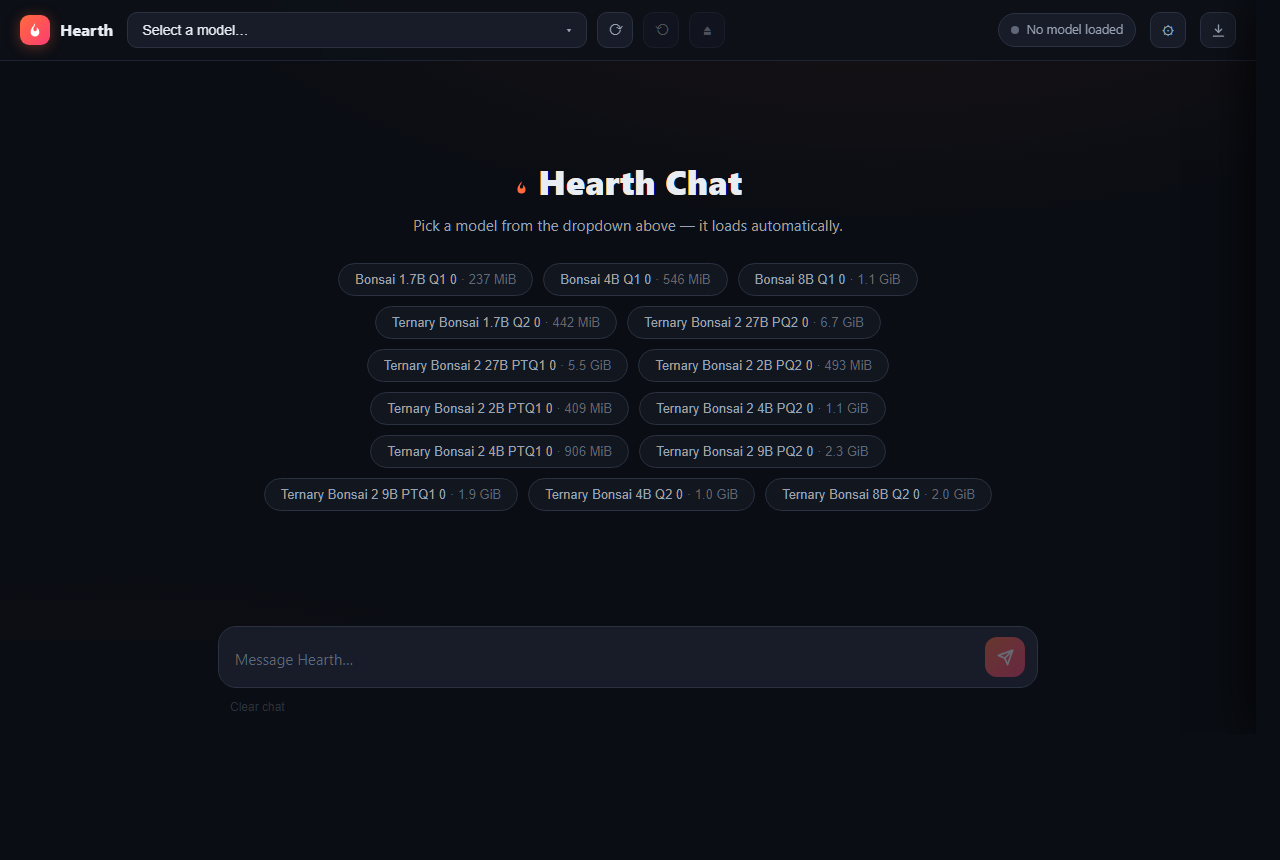
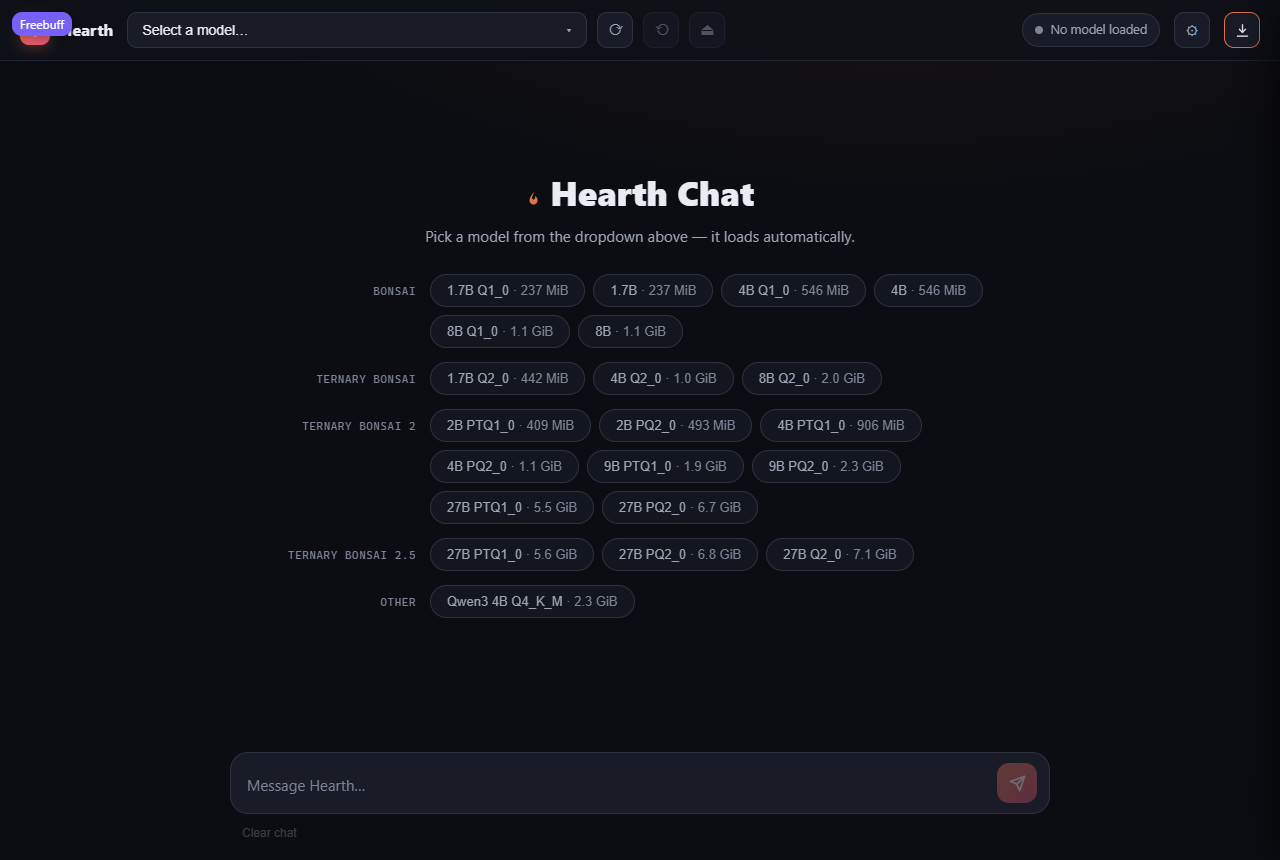
Group the hero's model chips by family
Seventeen packs read as one wall of chips, so the picker's family order now
also names the groups: a right-aligned heading per run of models, and chips
that carry only what differs inside the group ("27B PTQ1_0" rather than
"Ternary Bonsai 2 27B PTQ1_0"). One table drives rank, heading and prefix,
so they cannot drift apart, and an unknown file still lands under "Other".

The stylesheet had no rules for the three classes the markup emits, so the
headings rendered as unstyled text above the chips; added them, with a fixed
label column so the chips line up down the page and no-wrapping headings so
"Ternary Bonsai 2.5" cannot push its row down.

Verified in the browser at 1280x860: /, /api/models and /api/downloads all
200, no console errors, the catalog renders all 18 entries with their state,
and both README screenshots are re-shot from this build.

diff --git a/crates/hearth-ui/src/web/index.html b/crates/hearth-ui/src/web/index.html
@@ -293,6 +293,37 @@
     transition: all .15s;
   }
   .chip:hover { color: var(--text); border-color: var(--accent); background: var(--accent-soft); }
+  /* The hero chip wall, grouped by family: one heading per run of models, so
+     seventeen packs read as four families instead of one long line. A two-column
+     label/chips row keeps the headings aligned with each other and the chips
+     aligned with the labels, which a centred flex line cannot do. */
+  .chip-groups {
+    display: flex;
+    flex-direction: column;
+    gap: 14px;
+    max-width: 780px;
+    margin: 26px auto 0;
+    text-align: left;
+  }
+  .chip-group { display: flex; align-items: baseline; gap: 14px; }
+  .chip-group-label {
+    /* Wide enough for the longest heading ("Ternary Bonsai 2.5") on one line:
+       a wrapped heading pushes its chips down and breaks the column. */
+    flex: 0 0 150px;
+    text-align: right;
+    white-space: nowrap;
+    font-family: var(--mono);
+    font-size: 11px;
+    letter-spacing: .06em;
+    text-transform: uppercase;
+    color: var(--faint);
+  }
+  .chip-group .chips {
+    flex: 1 1 auto;
+    justify-content: flex-start;
+    gap: 8px;
+    margin-top: 0;
+  }
 
   /* ---------- Composer ---------- */
   .composer-zone {
@@ -939,6 +970,30 @@ function searchedDirsHtml() {
     '<span class="dir">' + esc(d) + (i === dirs.length - 1 ? '.' : '') + '</span>').join("");
 }
 
+// The picker can hold seventeen files, and a flat list of seventeen chips is a
+// wall. S.models is already sorted by family, so one pass splits it into
+// consecutive runs and each run gets its heading.
+function modelChipsHtml() {
+  const groups = [];
+  for (const m of S.models) {
+    const family = familyOf(m.name);
+    let group = groups[groups.length - 1];
+    if (!group || group.family !== family) {
+      group = { family, items: [] };
+      groups.push(group);
+    }
+    group.items.push(m);
+  }
+  return '<div class="chip-groups">' + groups.map((g) =>
+    '<div class="chip-group">' +
+      '<div class="chip-group-label">' + esc(g.family.label) + '</div>' +
+      '<div class="chips">' + g.items.map((m) =>
+        '<button class="chip" data-path="' + esc(m.path) + '">' + esc(chipLabel(m.name)) +
+        ' <span style="color:var(--faint)">· ' + fmtBytes(m.size_bytes) + '</span></button>').join("") +
+      '</div>' +
+    '</div>').join("") + '</div>';
+}
+
 function heroEl() {
   const div = document.createElement("div");
   div.className = "hero";
@@ -953,11 +1008,7 @@ function heroEl() {
         '<div class="dir">HEARTH_MODELS_DIR adds more folders.</div></div>' +
         '<div><button class="chip" id="heroDl">Open model downloads</button></div>'
       : "") +
-    (S.models.length
-      ? '<div class="chips">' + S.models.map(m =>
-          '<button class="chip" data-path="' + esc(m.path) + '">' + esc(prettyName(m.name)) +
-          ' <span style="color:var(--faint)">· ' + fmtBytes(m.size_bytes) + '</span></button>').join("") + '</div>'
-      : "");
+    (S.models.length ? modelChipsHtml() : "");
   div.querySelectorAll(".chip").forEach(ch => {
     ch.addEventListener("click", () => {
       modelSelect.value = ch.dataset.path;
@@ -978,13 +1029,23 @@ function prettyName(file) {
 // The CLI lists .gguf files in byte order, which puts "Ternary-Bonsai-2-27B"
 // between "2-2B" and "2-4B" ('7' < 'B') and scatters the 27B through the 2B
 // models. Sort the picker the way the download catalog is written: family
-// first, then size, then 1-bit before 2-bit.
+// first, then size, then 1-bit before 2-bit. The same table names the groups
+// the hero chips are listed under, so rank, heading and prefix cannot drift
+// apart. The plain Ternary family excludes the "-2-" and "-2.5-" packs, which
+// are their own families; the specific patterns are tested first.
+const MODEL_FAMILIES = [
+  { rank: 0, re: /^bonsai-/i, label: "Bonsai" },
+  { rank: 1, re: /^ternary-bonsai-(?!2[.-])/i, label: "Ternary Bonsai" },
+  { rank: 2, re: /^ternary-bonsai-2-/i, label: "Ternary Bonsai 2" },
+  { rank: 3, re: /^ternary-bonsai-2\.5-/i, label: "Ternary Bonsai 2.5" },
+];
+// A file the catalog does not know sorts after the known families.
+const OTHER_FAMILY = { rank: 4, re: null, label: "Other" };
+function familyOf(name) {
+  return MODEL_FAMILIES.find((f) => f.re.test(name)) || OTHER_FAMILY;
+}
 function modelFamily(name) {
-  if (/^bonsai-/i.test(name)) return 0;
-  if (/^ternary-bonsai-2\.5-/i.test(name)) return 3;
-  if (/^ternary-bonsai-2-/i.test(name)) return 2;
-  if (/^ternary-bonsai-/i.test(name)) return 1;
-  return 4; // a file the catalog does not know: after the known families
+  return familyOf(name).rank;
 }
 function modelSize(name) {
   const m = name.match(/(\d+(?:\.\d+)?)\s*b/gi);
@@ -1001,6 +1062,14 @@ function sortModels(list) {
     modelSize(a.name) - modelSize(b.name) ||
     quantRank(a.name) - quantRank(b.name) ||
     (a.name < b.name ? -1 : a.name > b.name ? 1 : 0));
+}
+
+// Under a family heading the family name is already said, so a chip only
+// carries what differs: "27B PTQ1_0" rather than "Ternary Bonsai 2 27B PTQ1_0".
+function chipLabel(name) {
+  const family = familyOf(name);
+  const stem = name.replace(/\.gguf$/i, "");
+  return prettyName(family.re ? stem.replace(family.re, "") : stem);
 }
 
 // Build the collapsible reasoning drawer element for a completed message.
